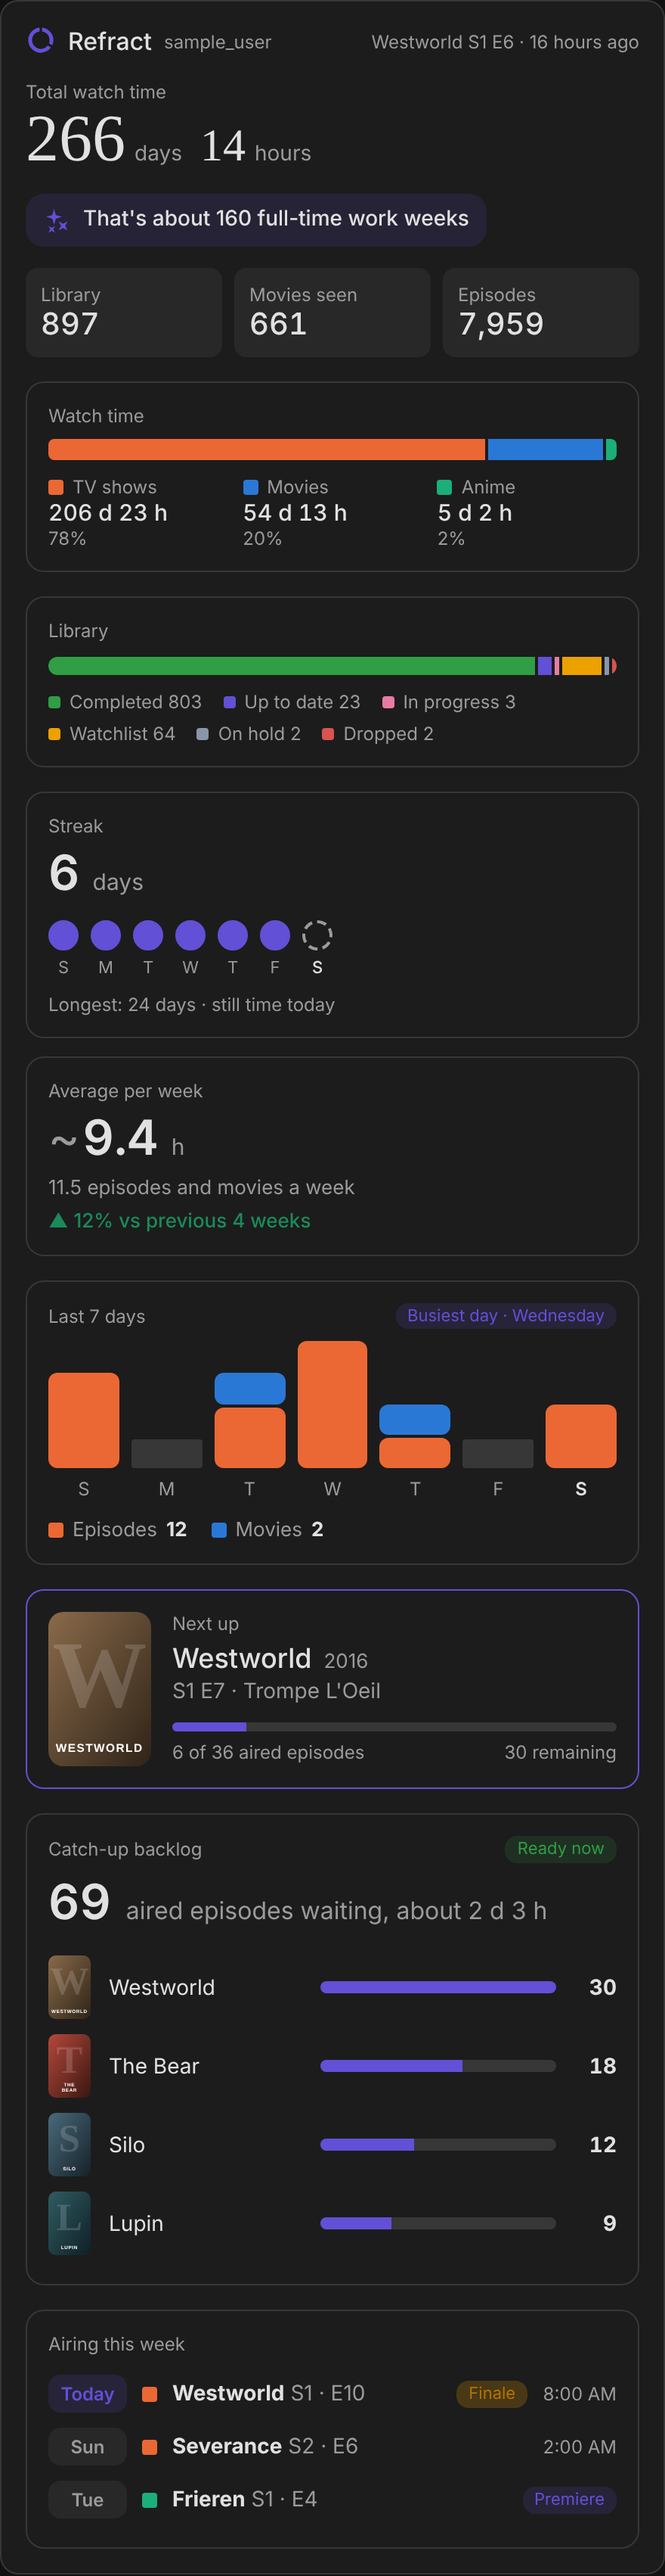
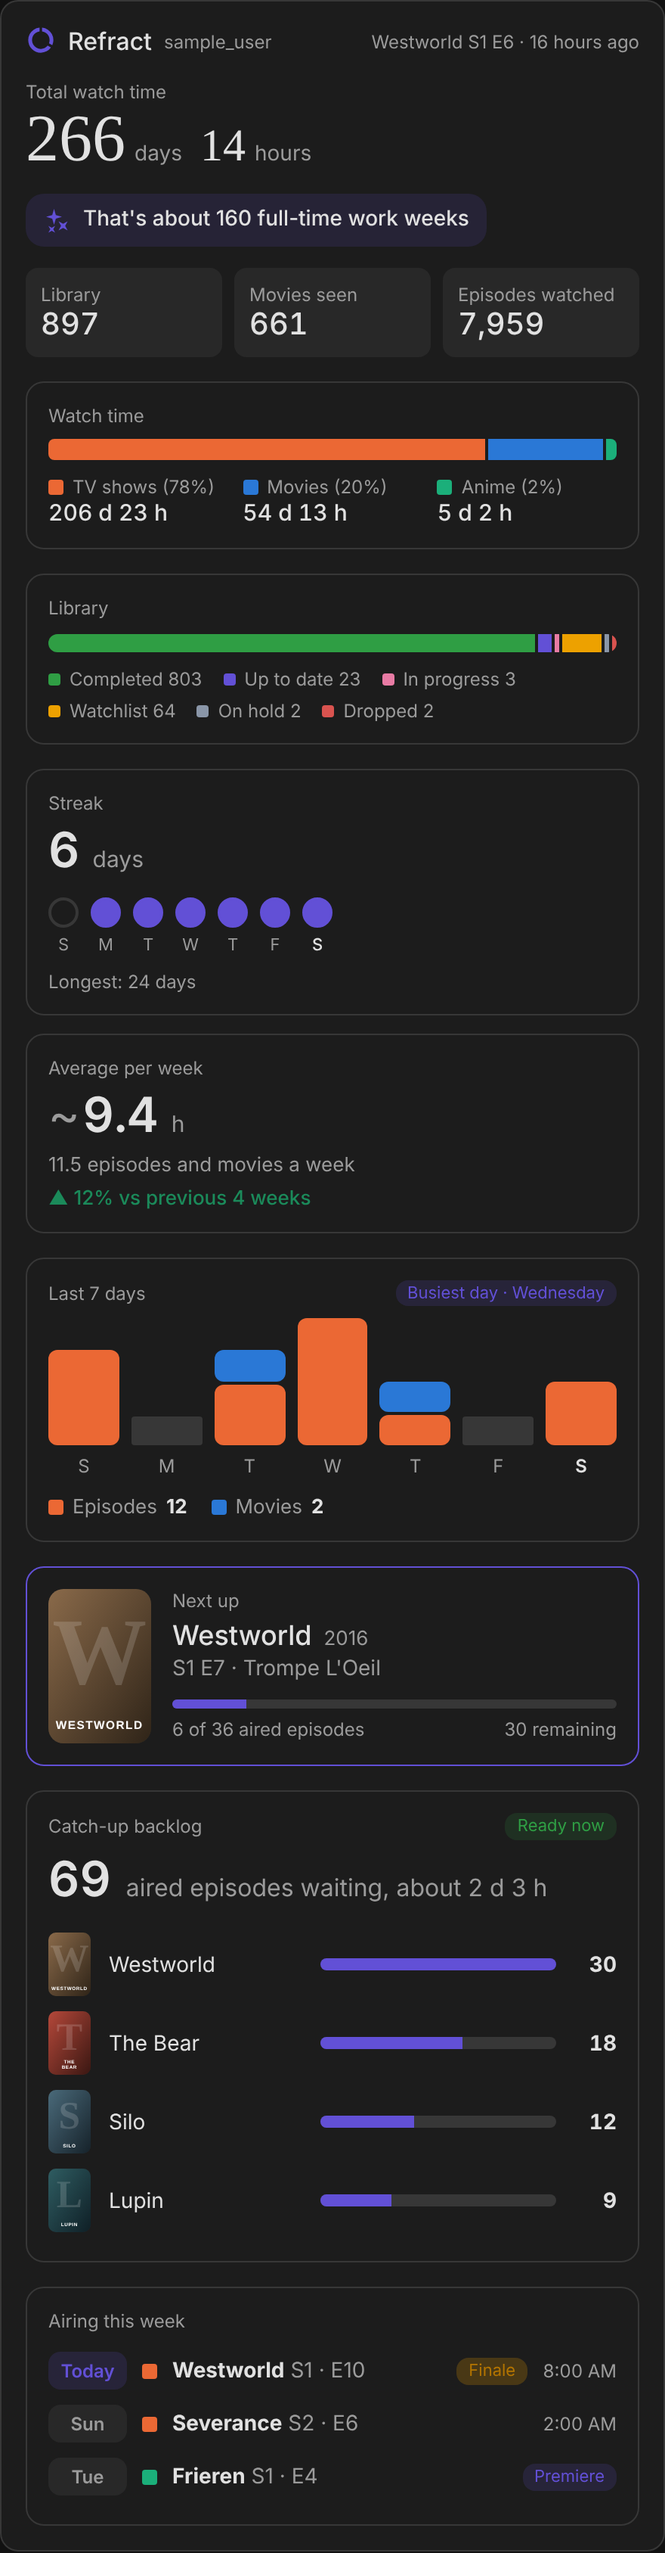
Add files via upload

diff --git a/frontend/test/card.test.ts b/frontend/test/card.test.ts
@@ -49,7 +49,7 @@ test("renders the hero with human durations", async () => {
   assert.match(t, /Total watch time 266 days 14 hours/);
   assert.match(t, /Library 896/);
   assert.match(t, /Movies seen 661/);
-  assert.match(t, /Episodes 7,959/);
+  assert.match(t, /Episodes watched 7,959/);
   assert.match(t, /That's about 8\.8 months of nonstop viewing/);
   assert.doesNotMatch(t, /383,908|298,044|78,542|7,322/, "raw minutes never reach the card");
 });
@@ -66,7 +66,9 @@ test("library status bar and watch-time split", async () => {
   assert.match(t, /206 d 23 h/);
   assert.match(t, /54 d 13 h/);
   assert.match(t, /5 d 2 h/);
-  assert.match(t, /78%/);
+  assert.match(t, /TV shows \(78%\)/);
+  assert.match(t, /Movies \(20%\)/);
+  assert.match(t, /Anime \(2%\)/);
 });
 
 function withStatuses(byStatus: Record<string, number>) {

diff --git a/frontend/src/localize.ts b/frontend/src/localize.ts
@@ -11,7 +11,7 @@ const en: Dict = {
   "hero.total": "Total watch time",
   "hero.library": "Library",
   "hero.movies_seen": "Movies seen",
-  "hero.episodes": "Episodes",
+  "hero.episodes": "Episodes watched",
   "unit.days": "days",
   "unit.day": "day",
   "unit.hours": "hours",

diff --git a/docs/dashboard-card.md b/docs/dashboard-card.md
@@ -8,7 +8,7 @@ The dashboard card that ships with the [Refract integration](https://github.com/
 
 | Section | What you see | Needs |
 |---|---|---|
-| **Watch time** | Total time as days and hours, a library/movies/episodes summary, and the fun stat in a highlighted pill ("about 8.8 months of nonstop viewing") | profile stats |
+| **Watch time** | Total time as days and hours, a library/movies/episodes watched summary, and the fun stat in a highlighted pill ("about 8.8 months of nonstop viewing") | profile stats |
 | **Watch time split** | Shows, movies and anime as a stacked bar with readable durations and shares | profile stats |
 | **Library** | A status bar with a count for every status you use: completed, up to date, in progress, watchlist, on hold, dropped and any other status Refract adds | library |
 | **Streak** | Current streak in big numbers, seven day dots and your longest streak | profile stats |
@@ -170,7 +170,7 @@ Add one card per account and pick an entity from each.
 - **Watch history is refreshed hourly**, and straight after you mark something watched through Home Assistant. Turn it off in the integration options if you don't want the extra requests; the two sections that need it then disappear.
 - **The catch-up backlog** counts aired episodes you haven't watched across every show you're watching, including the one shown as next up. The time is an estimate from your average episode length.
 - **The library bar** lists every status that has at least one title, taken from the `by_status` attribute of the library total sensor (statuses are ordered completed, up to date, in progress, watchlist, on hold, dropped, then any others alphabetically; "paused" counts as on hold). If that attribute is missing, for example with an older integration version, the card shows the four main statuses plus **Other**, the difference between your library total and their sum, so the bar always adds up.
-- **Episodes** in the summary is TV episodes plus anime episodes.
+- **Episodes watched** in the summary is TV episodes plus anime episodes.
 - **The fun stat** needs at least a day of watch time. In `rotate` mode it changes once a day.
 
 ## Styling

diff --git a/frontend/CHANGELOG.md b/frontend/CHANGELOG.md
@@ -1,5 +1,10 @@
 # Changelog
 
+## 0.3.6
+
+- **Changed:** the summary tile says **Episodes watched** instead of "Episodes"
+- **Changed:** *Watch time* shows the percentage after each title, e.g. *TV shows (78%)*, *Movies (20%)*, *Anime (2%)*, rather than on a separate line
+
 ## 0.3.4
 
 - **New:** the library bar shows every status you use, including **On hold** and **Dropped**, instead of lumping them into "Other". Other statuses Refract may add appear with a readable name

diff --git a/CHANGELOG.md b/CHANGELOG.md
@@ -2,6 +2,12 @@
 
 All notable changes to the Refract integration and its dashboard card.
 
+## 0.3.6
+
+### Changed
+- The summary tile on the card now reads **Episodes watched** instead of just "Episodes"
+- In **Watch time**, the share of each category now sits next to its title, e.g. *TV shows (78%)*, *Movies (20%)*, *Anime (2%)*, instead of on its own line below the duration
+
 ## 0.3.5
 
 ### Fixed
